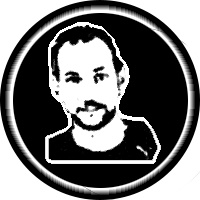
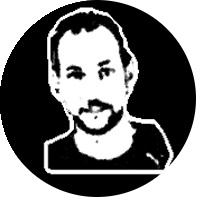
final

diff --git a/ForceUni Final/dark-side/aboutUs.html b/ForceUni Final/dark-side/aboutUs.html
@@ -84,17 +84,16 @@
 
         <article class="profile">
             <div class="profil-img">
-                <img src="../img/DartVader.png">
-                <p> name : Darth Vader</p>
-                <p> years : Unknown </p>
+                <img src="../img/tkk.jpeg">
+                <p> name : Todor Klasnakov</p>
+                <p> years : 27 </p>
                 <p> Species : Human </p>
-                <p> Homeworld : Tatooine</p>
-          </div>
+                <p> Homeworld : Earth</p>
+            </div>
 
             <div class ="profile-info"> 
                     <p> About the lecturer :</p>
-                    <p> Darth Vaidar were Jedi programmer once but he saw the power in the DARK SIDE OF THE CODE FORCE and now he is main lecturer in the FORCE UNI. He work for Emperror Palpatine like his
-                    personal codder. This guy is the shit ! He know the CODE FORCES indepth and can use it THE DARK SIDE OF THE FORCE CODE offering him bigger salary and power but for now Luke refusing.</p>
+                    <p> Content writer & text redaction </p>
 
             </div>
 

diff --git a/ForceUni Final/jedi-side/aboutUs.html b/ForceUni Final/jedi-side/aboutUs.html
@@ -84,17 +84,16 @@
 
         <article class="profile">
             <div class="profil-img">
-                <img src="../img/DartVader.png">
-                <p> name : Darth Vader</p>
-                <p> years : Unknown </p>
+                <img src="../img/tkk.jpeg">
+                <p> name : Todor Klasnakov</p>
+                <p> years : 27 </p>
                 <p> Species : Human </p>
-                <p> Homeworld : Tatooine</p>
-          </div>
+                <p> Homeworld : Earth</p>
+            </div>
 
             <div class ="profile-info"> 
                     <p> About the lecturer :</p>
-                    <p> Darth Vaidar were Jedi programmer once but he saw the power in the DARK SIDE OF THE CODE FORCE and now he is main lecturer in the FORCE UNI. He work for Emperror Palpatine like his
-                    personal codder. This guy is the shit ! He know the CODE FORCES indepth and can use it THE DARK SIDE OF THE FORCE CODE offering him bigger salary and power but for now Luke refusing.</p>
+                    <p> Content writer & text redaction</p>
 
             </div>
 

diff --git a/ForceUni Final/index.html b/ForceUni Final/index.html
@@ -60,7 +60,7 @@
                      Arising army
                      of quality Jedi coders, give a new hope for local galaxy</p>
             
-     
+
             
         </div>
     </div> 
